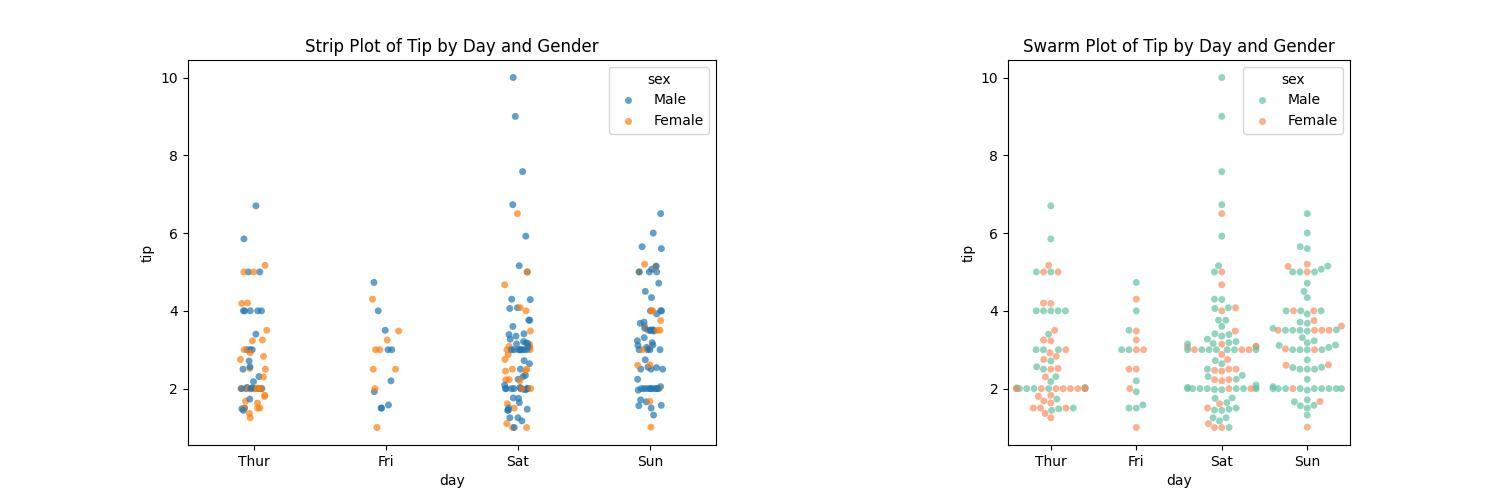
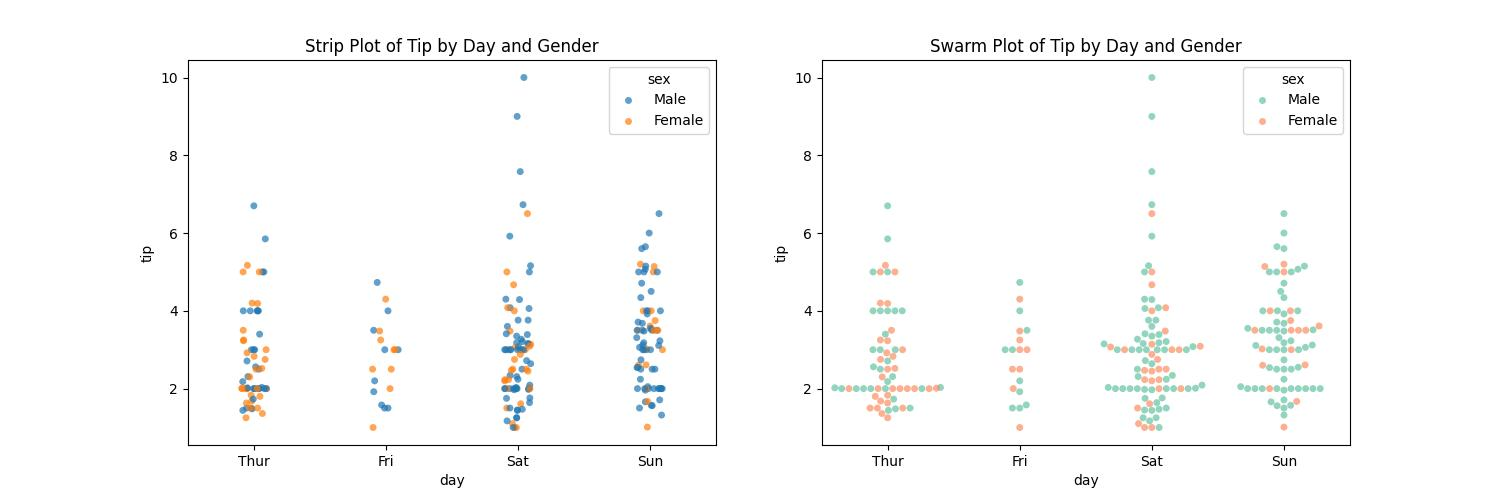
Updated Changes

diff --git a/week04/seaborn_code.py b/week04/seaborn_code.py
@@ -16,7 +16,7 @@ import matplotlib.pyplot as plt
 # figure에 2개의 서브 플롯을 생성
 fig = plt.figure(figsize=(15, 5))
 ax1 = fig.add_subplot(1, 2, 1)
-ax2 = fig.add_subplot(1, 3, 2)
+ax2 = fig.add_subplot(1, 2, 2)
 
 # stripplot( ) 그리기
 sns.stripplot(x='day', y='tip', hue='sex', data=tips, alpha=0.7, ax=ax1)
